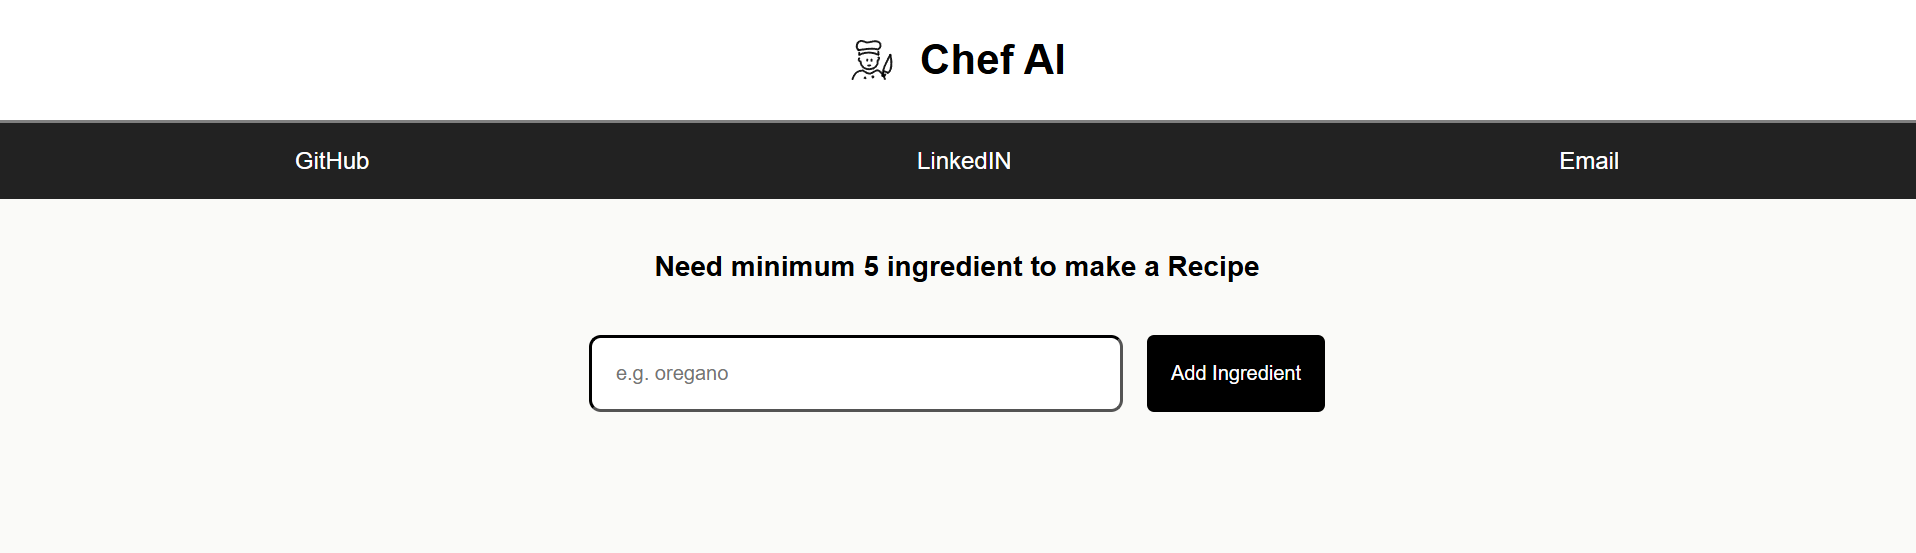
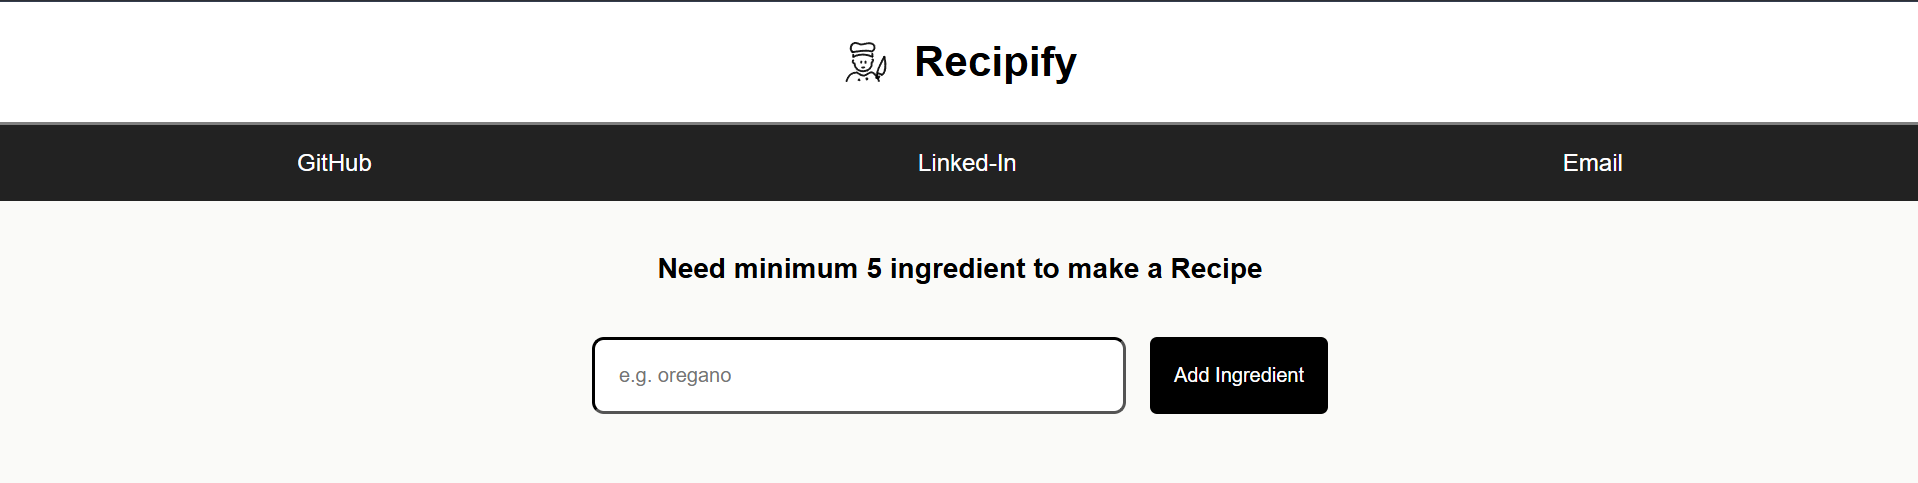
general improvements

diff --git a/client/src/components/Header/Header.tsx b/client/src/components/Header/Header.tsx
@@ -4,7 +4,7 @@ function Header(){
     return (
         <header>
             <img src="src\assets\chef-svgrepo-com.svg" alt="Chef Image" />
-            <h3>Chef AI</h3>
+            <h3>Recipify</h3>
         </header>
     );
 };
